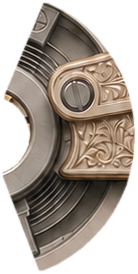
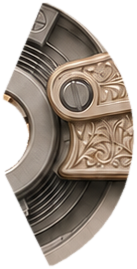
Widen the 5-7 window again; straight radial cutoff lines at the pad
Case sector end 69 -> 64 deg. The 7 o'clock terminations return to
straight radial lines (103-125 deg) hugging the pad's flanks, with the
stud/pad/arm silhouettes kept beneath for overlap protection.

Changed region(s): [[0.0, 0.0, 0.9927, 1.0], [0.0, 0.3271, 0.2628, 0.5353], [0.3504, 0.0, 0.4088, 0.0297]]

diff --git a/index.html b/index.html
@@ -274,7 +274,7 @@
               <img class="cb-rig-static" src="/assets/caseback/rig/static-cock.webp" style="left:58.692%;top:54.545%;width:22.329%;height:24.482%" alt="" decoding="async">
               <img class="cb-rig-static" src="/assets/caseback/rig/static-steelarm.webp" style="left:50.957%;top:34.211%;width:7.576%;height:10.447%" alt="" decoding="async">
               <img class="cb-rig-static" src="/assets/caseback/rig/static-topslot.webp" style="left:57.496%;top:35.486%;width:14.514%;height:19.378%" alt="" decoding="async">
-              <img class="cb-rig-static" src="/assets/caseback/rig/static-balance-arc-cover.webp" style="left:54.625%;top:56.938%;width:11.005%;height:21.850%" alt="" decoding="async">
+              <img class="cb-rig-static" src="/assets/caseback/rig/static-balance-arc-cover.webp" style="left:54.705%;top:56.938%;width:10.925%;height:21.451%" alt="" decoding="async">
               <img class="cb-rig-static" src="/assets/caseback/rig/static-support-top.webp" style="left:55.502%;top:55.901%;width:3.828%;height:5.104%" alt="" decoding="async">
               <img class="cb-rig-static" src="/assets/caseback/rig/static-support-toptab.webp" style="left:54.147%;top:58.692%;width:2.313%;height:2.711%" alt="" decoding="async">
               <img class="cb-rig-static" src="/assets/caseback/rig/static-sec-eleven.webp" style="left:45.694%;top:56.619%;width:6.140%;height:6.140%" alt="" decoding="async">
@@ -282,6 +282,7 @@
               <img class="cb-rig-static" src="/assets/caseback/rig/static-support-bottom.webp" style="left:54.785%;top:72.807%;width:3.110%;height:5.263%" alt="" decoding="async">
               <img class="cb-rig-static" src="/assets/caseback/rig/static-support-bl-pad.webp" style="left:48.166%;top:73.445%;width:4.386%;height:4.386%" alt="" decoding="async">
               <img class="cb-rig-static" src="/assets/caseback/rig/static-support-bl-arm.webp" style="left:50.239%;top:71.531%;width:3.190%;height:3.429%" alt="" decoding="async">
+              <img class="cb-rig-static" src="/assets/caseback/rig/static-sec-seven.webp" style="left:46.890%;top:72.329%;width:6.061%;height:6.938%" alt="" decoding="async">
               <img class="cb-rig-static" src="/assets/caseback/rig/static-gem-seconds.webp" style="left:36.762%;top:48.724%;width:2.073%;height:2.073%" alt="" decoding="async">
               <div class="cb-rig-sheen"></div>
             </div>
